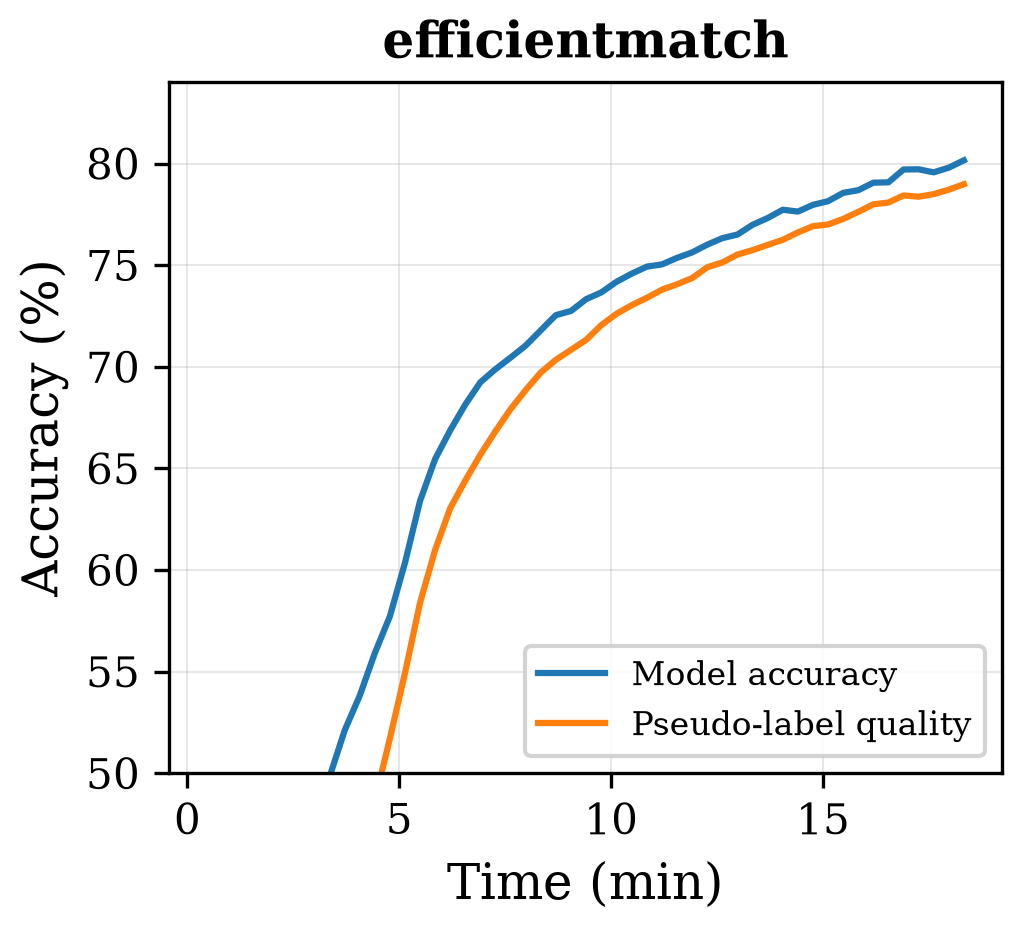
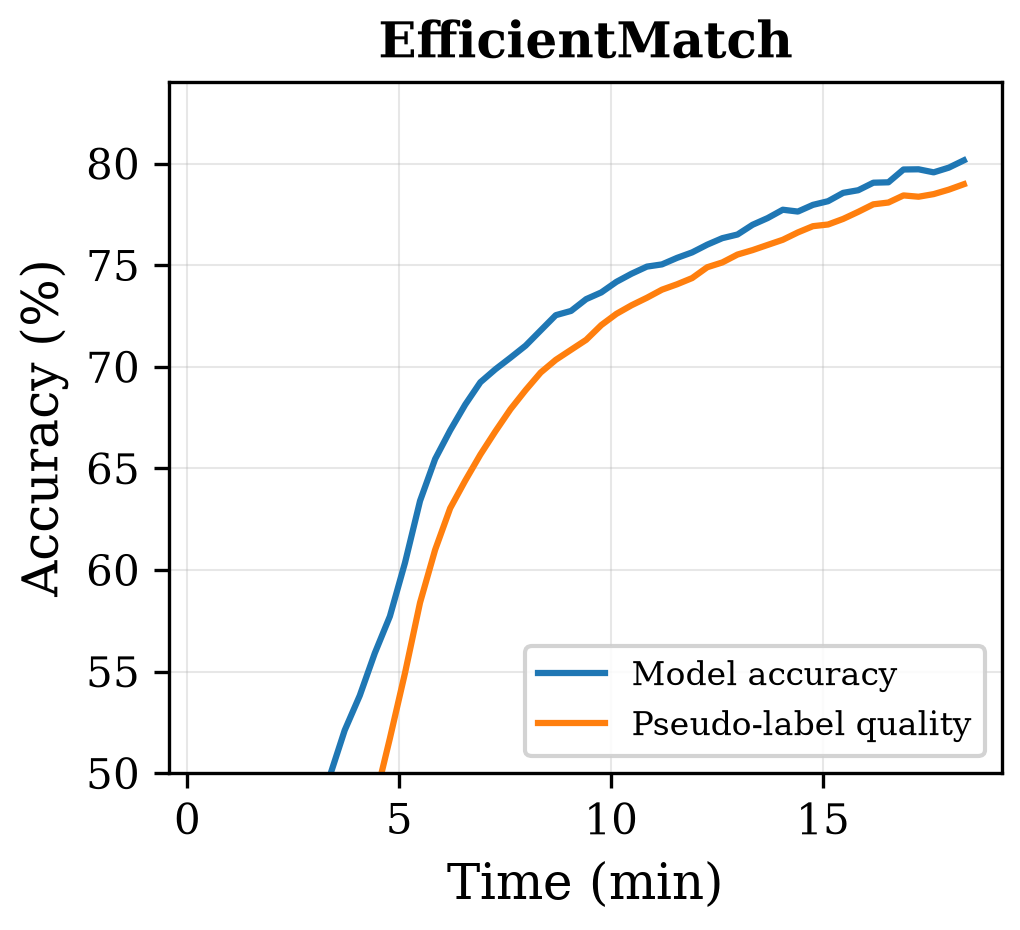
Figure 1: method names as written in the paper (d4ZC)

Changed region(s): [[0.3647, 0.0, 0.7902, 0.0624]]

diff --git a/scripts/plot_acc_vs_pl.py b/scripts/plot_acc_vs_pl.py
@@ -13,6 +13,10 @@ p.add_argument("--ymin", type=float, default=50); p.add_argument("--ymax", type=
 p.add_argument("--overwrite", action="store_true")
 a = p.parse_args()
 
+# Method names as written in the paper (Figure 1 used the lowercase script names).
+DISPLAY = {"fixmatch": "FixMatch", "mixmatch": "MixMatch", "efficientmatch": "EfficientMatch",
+           "flexmatch": "FlexMatch", "regmixmatch": "RegMixMatch"}
+
 plt.rcParams.update({"font.family": "serif", "font.size": 11, "axes.titlesize": 12, "axes.labelsize": 12,
                      "xtick.labelsize": 10, "ytick.labelsize": 10, "legend.fontsize": 10})
 d = os.path.join(ROOT, "results", f"{a.dataset}-labeled-{a.num_labeled}-seed-{a.seed}")
@@ -27,7 +31,7 @@ for m in a.methods:
     ax.set_ylim(a.ymin, a.ymax)
     ax.set_xlabel("Time (min)"); ax.set_ylabel("Accuracy (%)")
     name = m
-    ax.set_title(name, fontweight="bold")
+    ax.set_title(DISPLAY.get(m, m), fontweight="bold")
     ax.grid(alpha=0.3, lw=0.5)
     ax.legend(loc="lower right", fontsize=8, frameon=True, framealpha=0.85)
     fig.tight_layout(pad=0.4)
